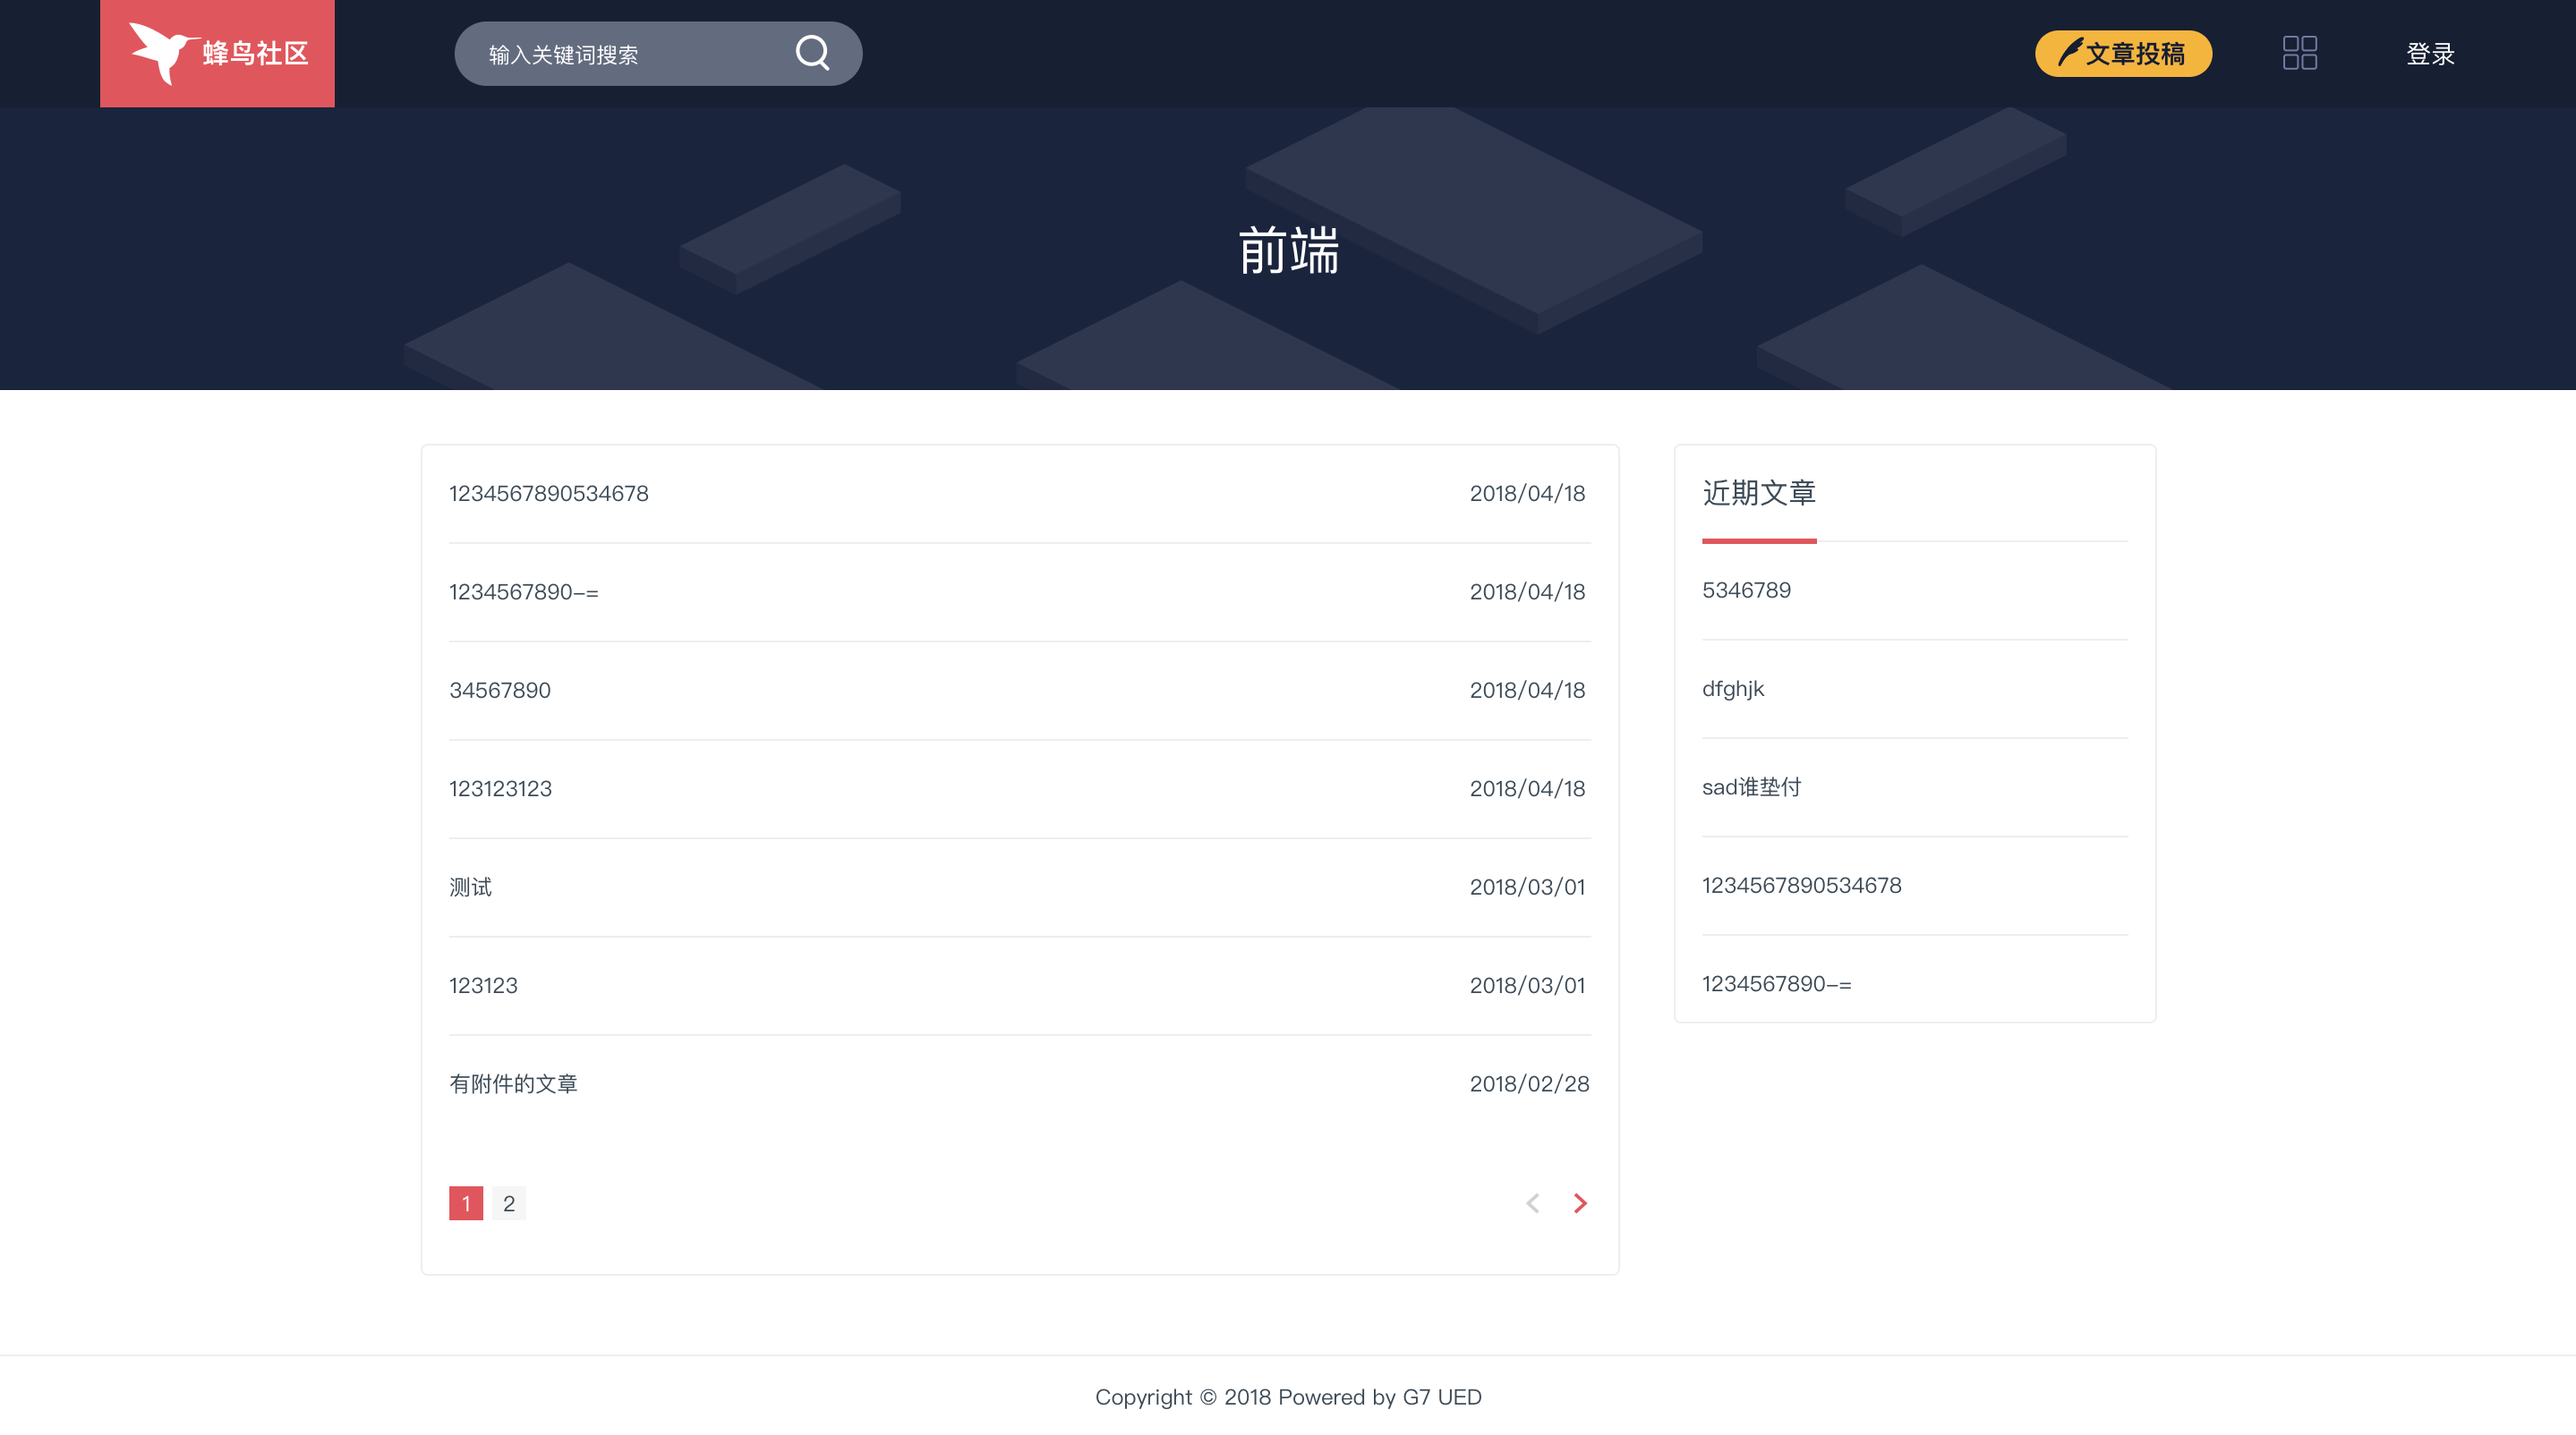
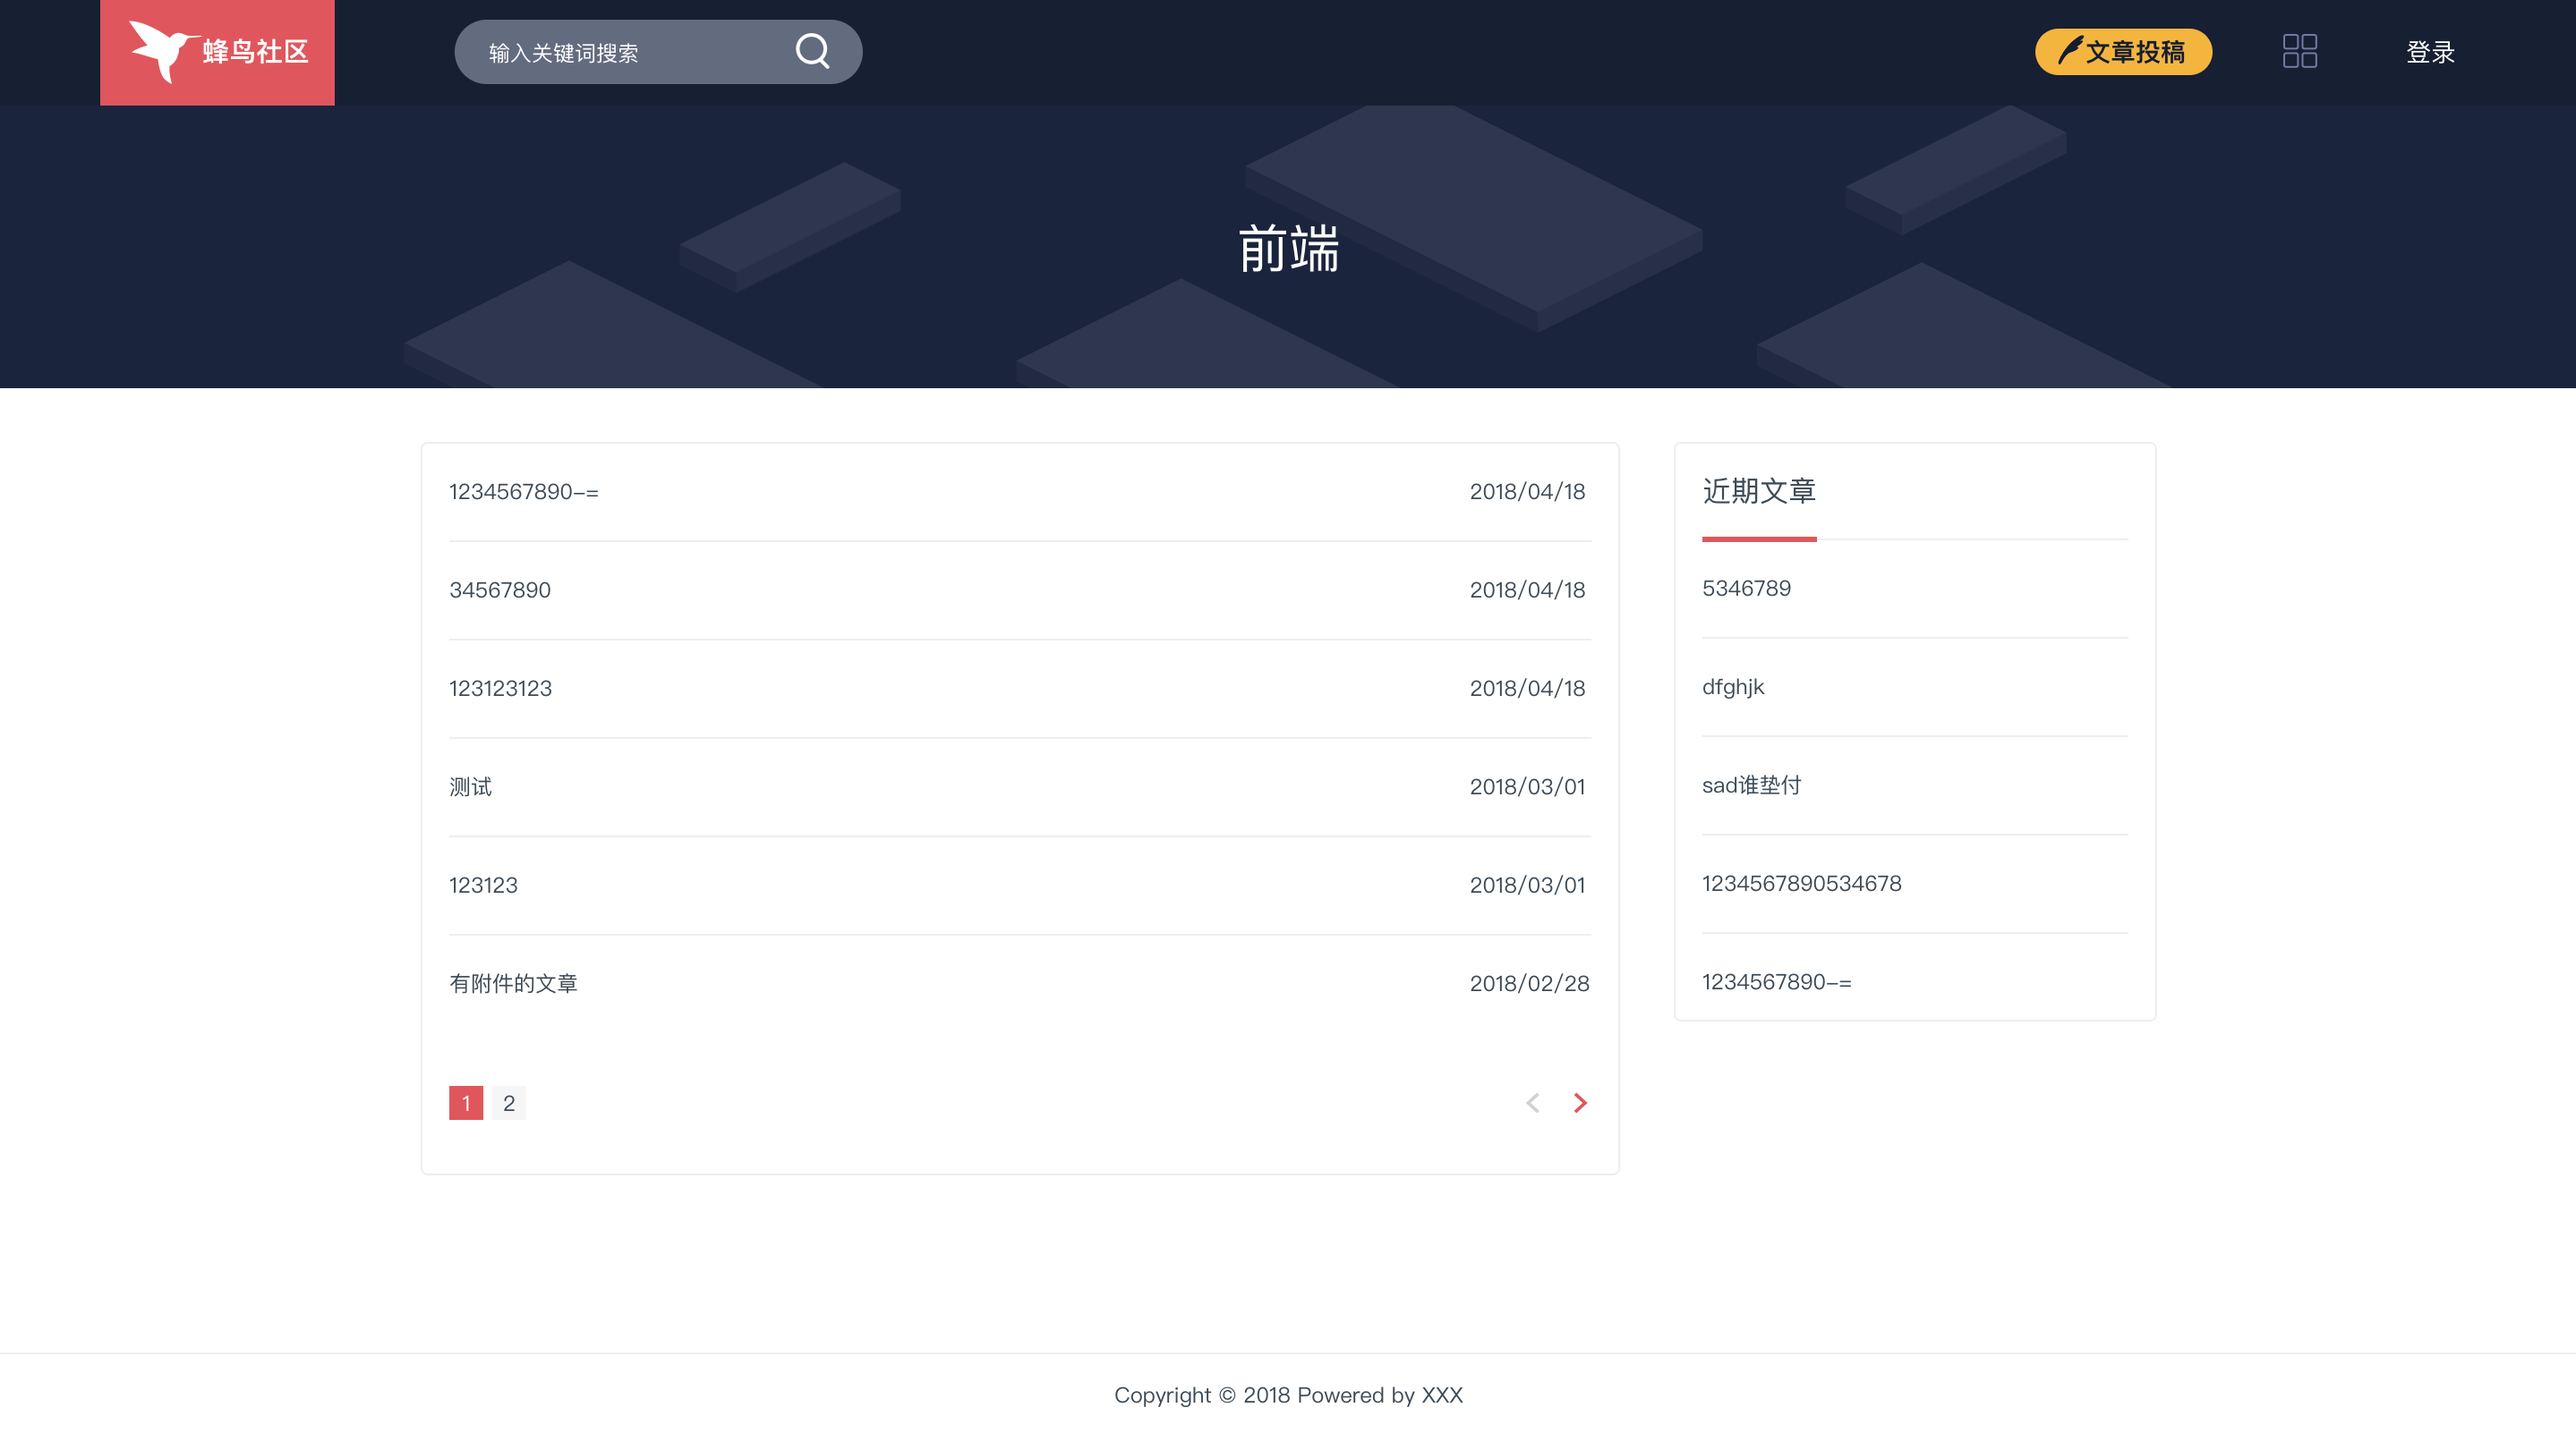
fix

diff --git a/client/src/App.vue b/client/src/App.vue
@@ -32,7 +32,7 @@
     </header>
     <router-view class="content"/>
     <footer class="footer">
-      Copyright © 2018 Powered by G7 UED
+      Copyright © 2018 Powered by XXX
     </footer>
     <modal title="注册" class="modal" :visible.sync="isRegisterShow" :has-footer="false" container-style="padding: 0 25px">
       <my-input class="modal-ipt" placeholder="用户名"></my-input>
